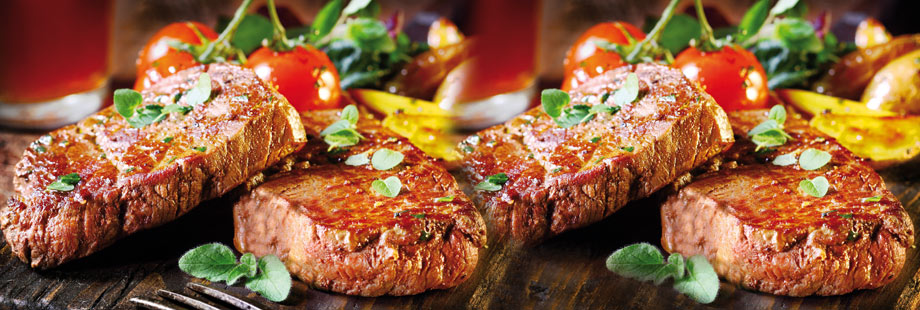
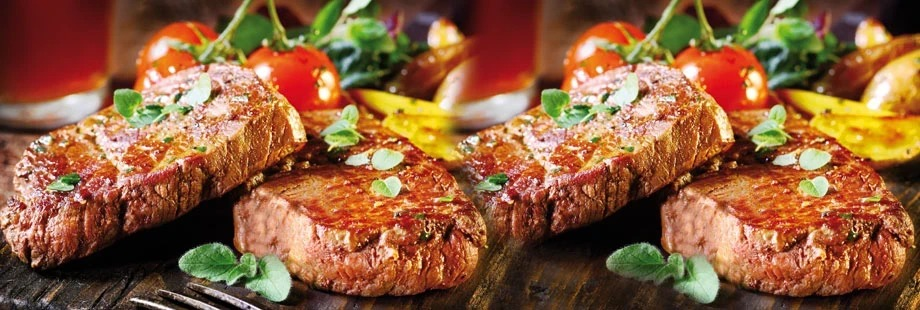
Alle 3 echten Bilder aus ZIP eingebaut
- Logo: neu freigestellt aus Upload-Datei (kein Wasserzeichen mehr)
- Restaurant-Innenraum: als Hero-Hintergrundbild (restaurant.jpg)
- Steak-Foto: hochauflösendes Original aus ZIP
- Wappen-Crop präzise auf Kreis begrenzt

diff --git a/index.html b/index.html
@@ -193,7 +193,7 @@ body.menu-open .mobile-menu{opacity:1;visibility:visible;transform:scale(1)}
   color:var(--brand-cream);overflow:hidden;
   background:radial-gradient(120% 120% at 50% 10%, #0a0604 0%, #021c4d 45%, #003087 72%, #1a0a00 100%);
 }
-.hero .bg-photo{position:absolute;inset:0;background:url("assets/img/steak.jpg") center/cover no-repeat;opacity:.14;mix-blend-mode:luminosity;z-index:0}
+.hero .bg-photo{position:absolute;inset:0;background:url("assets/img/restaurant.jpg") center/cover no-repeat;opacity:.22;mix-blend-mode:luminosity;z-index:0}
 #particles{position:absolute;inset:0;z-index:1;pointer-events:none}
 .hero .vignette{position:absolute;inset:0;z-index:2;box-shadow:inset 0 -150px 140px -50px rgba(10,6,4,.95),inset 0 90px 90px -40px rgba(2,16,42,.6)}
 .hero-content{position:relative;z-index:3;padding:96px 24px;max-width:920px;will-change:transform}